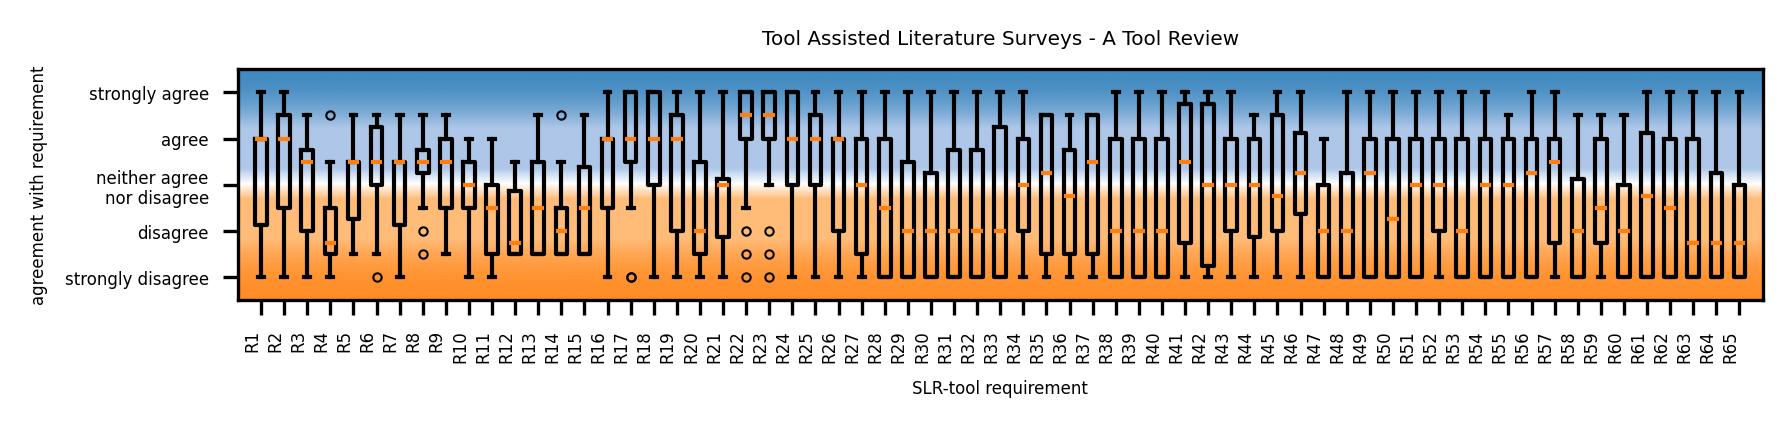
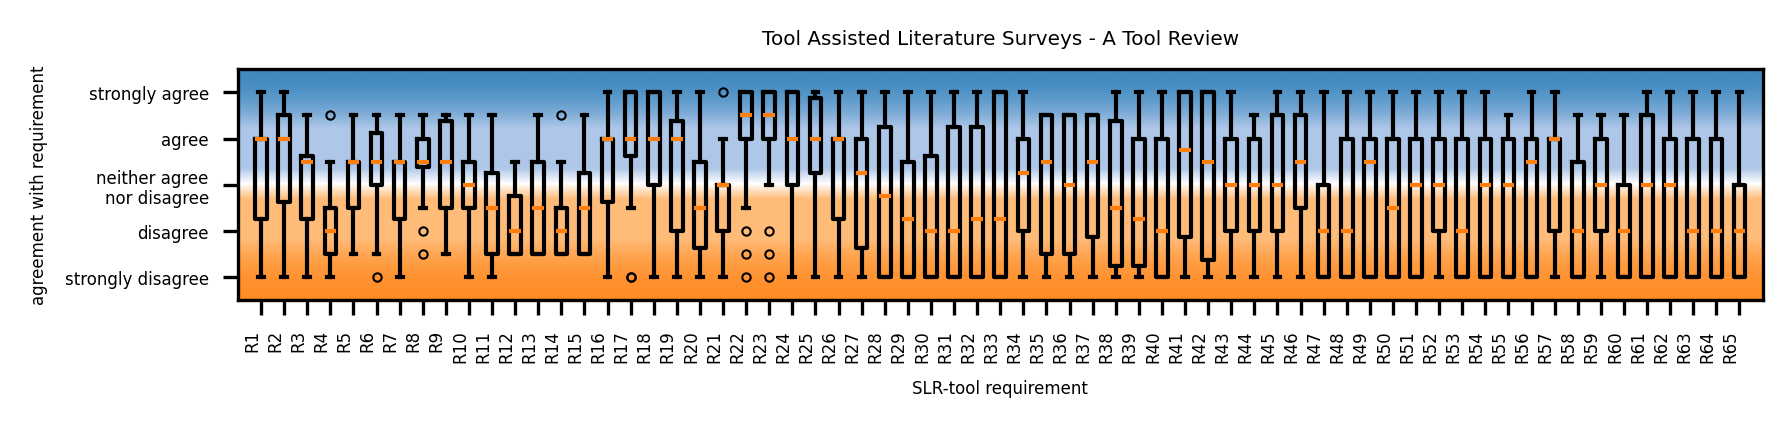
+1 reply

diff --git a/scripts/SWARM-SLR/data/analysis628237.md b/scripts/SWARM-SLR/data/analysis628237.md
@@ -437,3 +437,22 @@ Group time: Reporting: 23.81
 Group time: Demographic data: 21.38
 Group time: Conclusion: 5.53
 
+### Response ID: 71
+#### Tool: SWARM-SLR 2024-01
+#### Scores:
+['A3', 'A1', 'A4', 'A6', 'A4', 'A4', 'A4', 'A2', 'A2', 'A2', 'A2', 'A6', 'A6', 'A6', 'A6', 'A5', 'A3', 'A1', 'A3', 'A5', 'A5', 'A1', 'A1', 'A1', 'A1', 'A3', 'A4', 'A1', 'A1', 'A3', 'A1', 'A1', 'A1', 'A1', 'A2', 'A2', 'A2', 'A1', 'A1', 'A2', 'A1', 'A1', 'A1', 'A4', 'A1', 'A1', 'A1', 'A1', 'A3', 'A5', 'A5', 'A3', 'A3', 'A3', 'A3', 'A3', 'A3', 'A3', 'A3', 'A3', 'A1', 'A2', 'A2', 'A3', 'A3']
+#### Time:
+Total time: 4658.11
+Groups:
+Group time: Choose your Tool: 110.04
+Group time: Planning a review: 323.94
+Group time: Defining a scope: 889.95
+Group time: Search: 852.5
+Group time: Select: 314.08
+Group time: Evaluate: 836.66
+Group time: Analysis: 867.51
+Group time: Synthesis: 176.24
+Group time: Reporting: 161.72
+Group time: Demographic data: 23.12
+Group time: Conclusion: 102.35
+
